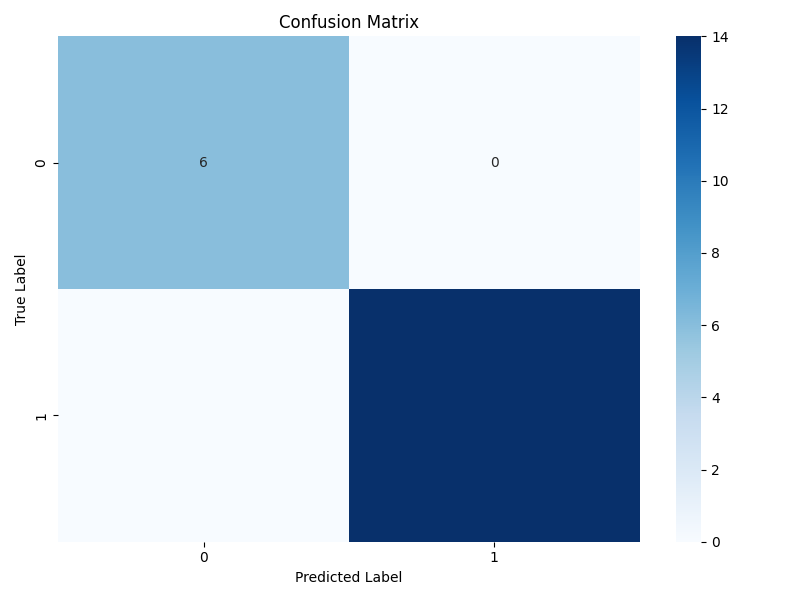
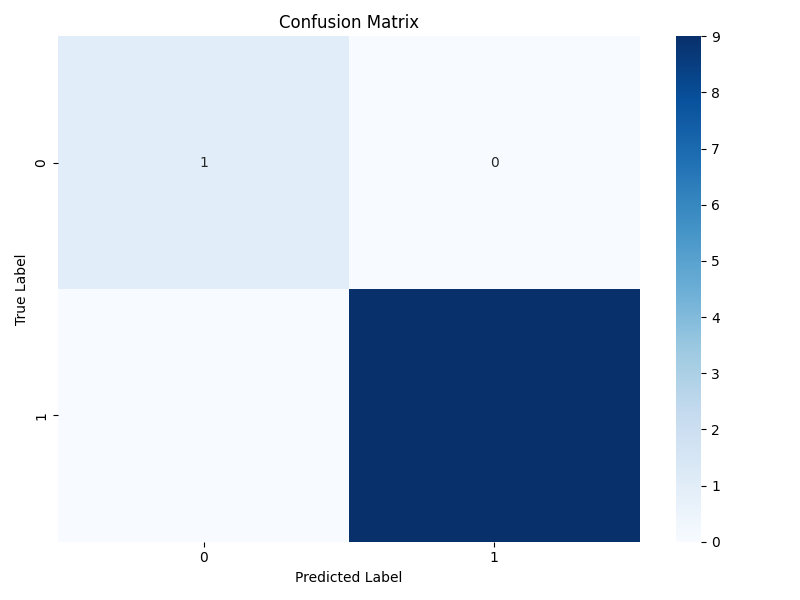
Random Forest

diff --git a/microglia_random_forest.py b/microglia_random_forest.py
@@ -30,7 +30,7 @@ def prepare_data():
 def train_random_forest(X, y, features):
     """Train and evaluate the Random Forest model."""
     # Split the data
-    X_train, X_test, y_train, y_test = train_test_split(X, y, test_size=0.4, random_state=42)
+    X_train, X_test, y_train, y_test = train_test_split(X, y, test_size=0.2, random_state=42)
     
     # Scale the features
     scaler = StandardScaler()
@@ -56,28 +56,6 @@ def train_random_forest(X, y, features):
     
     return rf_model, X_test_scaled, y_test, y_pred
 
-def plot_feature_importance(model, features):
-    """Plot feature importance from the Random Forest model."""
-    # Get feature importance
-    importance = model.feature_importances_
-    
-    # Create DataFrame of features and their importance scores
-    feature_importance = pd.DataFrame({
-        'feature': features,
-        'importance': importance
-    })
-    
-    # Sort by importance
-    feature_importance = feature_importance.sort_values('importance', ascending=False)
-    
-    # Plot
-    plt.figure(figsize=(12, 6))
-    sns.barplot(x='importance', y='feature', data=feature_importance.head(10))
-    plt.title('Top 10 Most Important Features')
-    plt.xlabel('Feature Importance')
-    plt.tight_layout()
-    plt.savefig('feature_importance.png')
-    plt.close()
 
 def plot_confusion_matrix(y_test, y_pred):
     """Plot confusion matrix."""
@@ -89,7 +67,7 @@ def plot_confusion_matrix(y_test, y_pred):
     plt.ylabel('True Label')
     plt.xlabel('Predicted Label')
     plt.tight_layout()
-    plt.savefig('confusion_matrix.png')
+    plt.savefig('Confusion_matrix.png')
     plt.close()
 
 def main():
@@ -99,15 +77,11 @@ def main():
     # Train and evaluate model
     model, X_test_scaled, y_test, y_pred = train_random_forest(X, y, features)
     
-    # Plot feature importance
-    plot_feature_importance(model, features)
-    
     # Plot confusion matrix
     plot_confusion_matrix(y_test, y_pred)
     
     print("\nVisualization files created:")
-    print("1. feature_importance.png - Shows the most important features")
-    print("2. confusion_matrix.png - Shows the model's prediction performance")
+    print("Confusion_matrix.png - Shows the model's prediction performance")
 
 if __name__ == "__main__":
     main()

diff --git a/microglia_network.py b/microglia_network.py
@@ -42,7 +42,7 @@ class MicrogliaNetwork(nn.Module):
     def forward(self, x):
         return self.network(x)
 
-def train_model(model, train_loader, val_loader, criterion, optimizer, num_epochs=1000):
+def train_model(model, train_loader, val_loader, criterion, optimizer, num_epochs=500):
     train_losses = []
     val_losses = []
     
